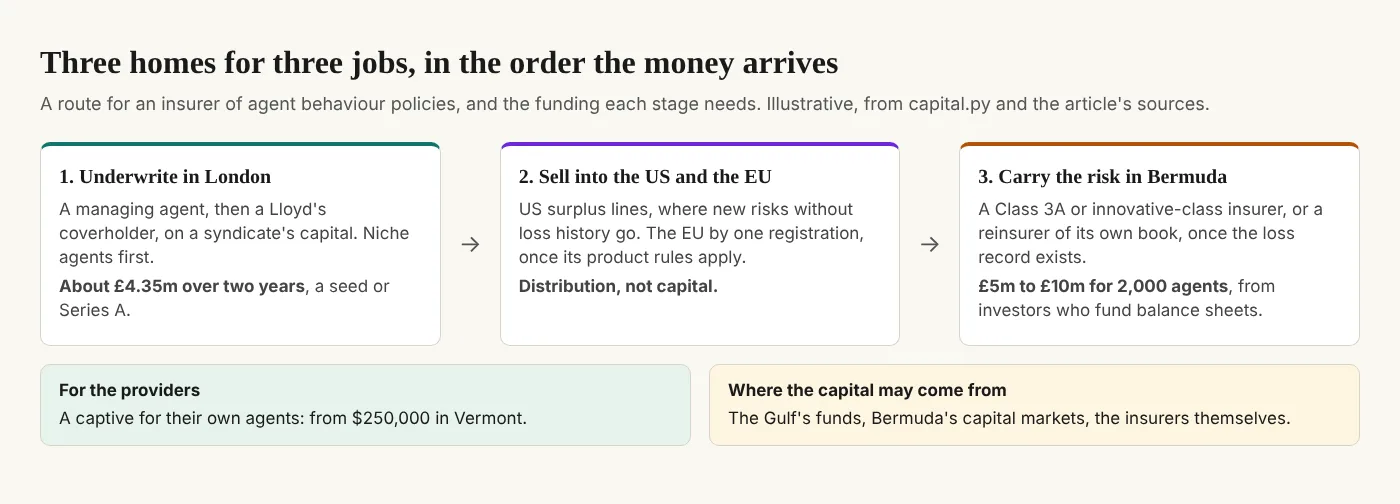
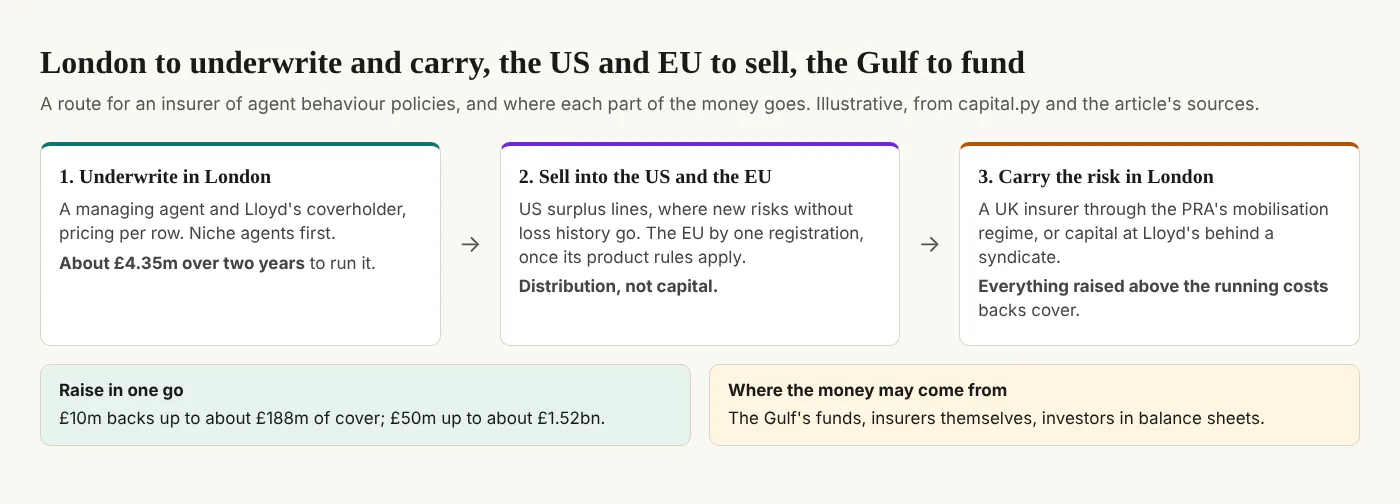
@newsroom.writer: where to build the agent insurer, revised source: London to underwrite and carry the risk (Bermuda and Saudi Arabia removed as targets), and what a one-go raise of £10m or £50m buys in cover
Claude-Session: https://claude.ai/code/session_01Kw9UwEhox7aFQtXsNDZr1t

diff --git a/admin/notes/2026-10-28__underwriting-abp/capital.py b/admin/notes/2026-10-28__underwriting-abp/capital.py
@@ -9,6 +9,11 @@ Two stages. Every input is an assumption, stated here, chosen for the article an
   (one model's flaw, one tool's bug), times the share the company keeps after reinsurance, with a buffer on top,
   and never below the regulatory floor of the place it is licensed.
 
+Raised in one go: for a single raise of £10 million or £50 million, the money left after two years of running the
+company backs the policies, so the ceiling of cover it buys is that capital divided by the share one shared failure
+could hit, the share kept after reinsurance and the buffer, as long as it stays above the UK floor. The premium that
+cover could earn is shown at the worked example's rate (£6,720 for £80,000 of cover, from premium.py).
+
 Run: python3 capital.py   (writes ../../content/articles/data/where-to-build-the-agent-insurer__capital.json)
 """
 import json, os
@@ -26,8 +31,9 @@ STAGE2 = {
     "shared_failure_share": [0.05, 0.10],
     "kept_after_reinsurance": 0.5,
     "buffer": 1.2,
-    "floors_gbp": {"Bermuda Class 3A ($1m)": 800000, "UK general insurer (PRA MCR)": 2400000, "EU non-life (Solvency II MCR)": 2350000},
+    "floors_gbp": {"UK general insurer (PRA MCR)": 2400000, "EU non-life (Solvency II MCR)": 2350000},
 }
+RAISES = {"raises_gbp": [10000000, 50000000], "premium_rate": 6720 / 80000}
 
 
 def stage1():
@@ -45,17 +51,33 @@ def stage2():
             need = limits * c * STAGE2["kept_after_reinsurance"] * STAGE2["buffer"]
             rows.append({"agents": n, "total_limits": limits, "shared_failure_share": c,
                          "capital_from_limits": round(need),
-                         "capital_with_uk_floor": round(max(need, STAGE2["floors_gbp"]["UK general insurer (PRA MCR)"])),
-                         "capital_with_bermuda_floor": round(max(need, STAGE2["floors_gbp"]["Bermuda Class 3A ($1m)"]))})
+                         "capital_with_uk_floor": round(max(need, STAGE2["floors_gbp"]["UK general insurer (PRA MCR)"]))})
     return rows
 
 
+def raises():
+    run = stage1()["total"]
+    out = []
+    for r in RAISES["raises_gbp"]:
+        capital = r - run
+        for c in STAGE2["shared_failure_share"]:
+            ok = capital >= STAGE2["floors_gbp"]["UK general insurer (PRA MCR)"]
+            limits = capital / (c * STAGE2["kept_after_reinsurance"] * STAGE2["buffer"]) if ok else 0
+            agents = int(limits // STAGE2["limits_per_agent_gbp"])
+            out.append({"raise": r, "running_two_years": run, "capital": capital, "shared_failure_share": c,
+                        "ceiling_of_limits": round(limits), "agents_at_80k": agents,
+                        "premium_a_year_at_example_rate": round(limits * RAISES["premium_rate"])})
+    return out
+
+
 if __name__ == "__main__":
-    s1, s2 = stage1(), stage2()
+    s1, s2, s3 = stage1(), stage2(), raises()
     out = {"note": "Illustrative. Computed by admin/notes/2026-10-28__underwriting-abp/capital.py; every input is an assumption stated in it.",
-           "stage1_inputs": STAGE1, "stage2_inputs": STAGE2, "stage1": s1, "stage2": s2}
+           "stage1_inputs": STAGE1, "stage2_inputs": STAGE2, "raise_inputs": RAISES, "stage1": s1, "stage2": s2, "raises": s3}
     here = os.path.dirname(os.path.abspath(__file__))
     json.dump(out, open(os.path.join(here, "..", "..", "content", "articles", "data", "where-to-build-the-agent-insurer__capital.json"), "w"), indent=1)
     print("stage 1, two years as a managing agent: £{:,}".format(s1["total"]), [f"year {y['year']}: £{y['cost']:,}" for y in s1["years"]])
     for r in s2:
-        print(f"stage 2: {r['agents']:>6,} agents, £{r['total_limits']:,} of limits, shared failure {r['shared_failure_share']:.0%}: capital £{r['capital_from_limits']:,} (UK floor applied £{r['capital_with_uk_floor']:,}; Bermuda £{r['capital_with_bermuda_floor']:,})")
+        print(f"stage 2: {r['agents']:>6,} agents, £{r['total_limits']:,} of limits, shared failure {r['shared_failure_share']:.0%}: capital £{r['capital_from_limits']:,} (UK floor applied £{r['capital_with_uk_floor']:,})")
+    for r in s3:
+        print(f"raise £{r['raise']:,}: capital £{r['capital']:,} after running; shared failure {r['shared_failure_share']:.0%}: ceiling £{r['ceiling_of_limits']:,} of limits, {r['agents_at_80k']:,} agents, premium about £{r['premium_a_year_at_example_rate']:,} a year")

diff --git a/admin/content/articles/where-to-build-the-agent-insurer.md b/admin/content/articles/where-to-build-the-agent-insurer.md
@@ -1,41 +1,41 @@
 ---
-title: Where to build the agent insurer: underwrite in London, sell into the US, carry the risk in Bermuda, raise capital in the Gulf, and about £4 million to start, with the capital following from the limits sold
+title: Where to build the agent insurer: underwrite and carry the risk in London, sell into the US and the EU, raise the capital in one go, and what £10 million or £50 million buys in cover
 date: 2026-10-28
 author: Dinis Cruz
 author_url: about/index.html
-summary: The last three articles described insuring an agent row by row from its behaviour policy, who could carry the risk, and the vendor's share of it. This one asks where such a company should be built, from a regulatory and an investment point of view, and how much it would take to start. My answer is that it has more than one home, because it does more than one job. It should start as a managing agent in London, pricing and selling on a Lloyd's syndicate's capital, because that is where two of today's AI agent covers are written, authorisation takes up to nine months, and an intermediary's own capital is the higher of £5,000 or 2.5% of its income. It should sell into the US through surplus lines, a $143.3 billion market built for risks without a loss history, and into the EU by one registration, once Europe's product rules make software a product on 9 December 2026. When its loss record allows, it should carry the risk itself in Bermuda, where a small commercial insurer has a $1 million floor, an innovative class and a sandbox exist, and most insurance-linked securities are listed. The Gulf is a place to raise capital before it is a market. On the money, I built a small model with every assumption stated: about £4.35 million for two years as a managing agent, a seed or Series A; then capital that follows from the limits sold, because every row is capped. For 2,000 agents with £160 million of limits, if one shared failure could hit 5% to 10% of them at once and half is reinsured, the capital is £4.8 million to £9.6 million. At 10,000 agents, £24 million to £48 million.
+summary: The last three articles described insuring an agent row by row from its behaviour policy, who could carry the risk, and the vendor's share of it. This one asks where such a company should be built, from a regulatory and an investment point of view, and how much it would take. My answer is London first, for two of its three jobs. It should start as a managing agent there, pricing and selling on a Lloyd's syndicate's capital, because that is where two of today's AI agent covers are written, authorisation takes up to nine months, and an intermediary's own capital is the higher of £5,000 or 2.5% of its income; and it should carry the risk there too, as a UK insurer through the PRA's mobilisation regime or with capital at Lloyd's. It should sell into the US through surplus lines, a $143.3 billion market built for risks without a loss history, and into the EU by one registration, once Europe's product rules make software a product on 9 December 2026. The Gulf's funds are a place to raise capital. On the money, I built a small model with every assumption stated, and the point it makes is that what the money buys is cover. Two years of running the company cost about £4.35 million; everything raised above that backs policies, and because every row is capped, the ceiling of cover follows from it. Raised in one go, £10 million backs about £94 million to £188 million of cover, 1,177 to 2,354 agents at £80,000 each; £50 million backs about £761 million to £1.52 billion, 9,510 to 19,020 agents, depending on how much of the book one shared failure could hit at once. The bigger the cover the company aims for, the more it should raise at the start.
 version: v999.0.0
 license: https://creativecommons.org/licenses/by/4.0/
-tags: insurance, underwriting, agent-behaviour-policy, riskmandate, capital, regulation, lloyds, bermuda, startups, article
+tags: insurance, underwriting, agent-behaviour-policy, riskmandate, capital, regulation, lloyds, fundraising, startups, article
 status: published
 ---
 
-!shot wh-route.webp | images/ | Three homes for three jobs: underwrite in London, sell into the US and EU, carry the risk in Bermuda. | process
+!shot wh-route.webp | images/ | Underwrite and carry the risk in London, sell into the US and EU, raise the capital in one go. | process
 
 ## In short {#in-short}
 
-- **The company does three jobs, so it can have three homes.** Pricing and selling, distribution, and carrying the risk need different licences and different money.
+- **The company does three jobs, and London suits two of them.** Pricing and selling, and carrying the risk; distribution goes where the customers are.
 - **Start as a managing agent in London.** Two of today's AI agent covers are written by Lloyd's coverholders; authorisation takes up to nine months; the intermediary's own capital is small.
+- **Carry the risk in London too.** A UK insurer through the PRA's mobilisation regime, or capital at Lloyd's behind a syndicate.
 - **Sell into the US through surplus lines.** A $143.3 billion market in 2025, built for risks no filed policy covers yet.
 - **Reach the EU by one registration,** once software becomes a product there on 9 December 2026; EIOPA is wary of MGAs, so expect questions.
-- **Carry the risk in Bermuda when the record allows.** A $1 million floor for a small commercial insurer, an innovative class and a sandbox.
-- **Raise capital in the Gulf before selling there.** Saudi insurers need SAR 300 million paid up; the region's funds are the opening.
-- **About £4.35 million to start.** Two years as a managing agent, in a model with every assumption stated.
-- **Then the capital follows from the limits sold.** £4.8 million to £9.6 million for 2,000 agents; £24 million to £48 million for 10,000.
+- **What the money buys is cover.** About £4.35 million runs the company for two years; everything raised above that backs policies.
+- **£10 million in one go backs about £94 million to £188 million of cover.** 1,177 to 2,354 agents.
+- **£50 million in one go backs about £761 million to £1.52 billion.** 9,510 to 19,020 agents; the bigger the aim, the more to raise at the start.
 
 ## The question, and why it has more than one answer {#question}
 
 In this series I described [insuring an agent row by row](/articles/a-payout-for-every-row.html), [who could carry that risk](/articles/who-carries-the-risk.html), and [the vendor's share of it](/articles/the-vendors-layer.html). The second article ended with a path: start as a managing agent on someone else's capital, prove the loss record, then carry the risk. So the natural next question is where to build such a company, from a regulatory and an investment point of view: the US, the UK, the EU, or the Middle East, where there are new regimes and new money.
 
-I think the honest answer is that it has more than one home, because it does more than one job. A managing agent prices and sells policies on an insurer's behalf and carries no risk on its own balance sheet; it needs a licence to distribute insurance and a carrier willing to lend its capital. An insurer pays the claims and has to hold capital against a bad year. Distribution needs licences where the customers are. Those three jobs are regulated differently in each place, and the best place for one is not the best place for the others.
+I think the honest answer is that it can have more than one home, because it does more than one job. A managing agent prices and sells policies on an insurer's behalf and carries no risk on its own balance sheet; it needs a licence to distribute insurance and a carrier willing to lend its capital. An insurer pays the claims and has to hold capital against a bad year. Distribution needs licences where the customers are. Those three jobs are regulated differently in each place, and the best place for one is not the best place for the others.
 
-!shot wh-homes.webp | images/ | The UK, US, EU, Bermuda and the Middle East: what each asks of a managing agent and an insurer. | comparison
+!shot wh-homes.webp | images/ | The UK, US, EU and UAE: what each asks of a managing agent and an insurer. | comparison
 
 ## Start in London {#london}
 
 The first job is pricing and selling, and London is where I would start. The AI agent cover on the market today is written in a handful of ways, and two of them, Armilla and Testudo, are Lloyd's coverholders with Lloyd's syndicates behind them, as [who carries the risk](/articles/who-carries-the-risk.html#landscape) set out. A coverholder needs a Lloyd's broker or managing agent to sponsor it, and the market is used to new specialty risks: the Lloyd's Lab's current cohort includes a "Risk engine quantifying advanced and systemic AI risks" ([FinTech Global](https://fintech.global/2026/03/20/lloyds-lab-unveils-cohort-16-insurtech-innovators/), 20 March 2026).
 
-The UK licence is within reach of a start-up. A managing agent is either authorised directly by the FCA, which "can typically take up to nine months from when an applicant starts preparing its application", or works as an appointed representative of a firm that is; its own capital requirement, if it does not hold client money, is the higher of "GBP5,000 or 2.5% of annual income from regulated insurance distribution activity", with professional indemnity cover on top ([DLA Piper](https://intelligence.dlapiper.com/managing-general-agents/?c=GB), September 2026). For the later step, the PRA has run a mobilisation regime for new insurers since 31 December 2024, "to facilitate new insurer expansion and entry into the UK market" ([Bank of England](https://www.bankofengland.co.uk/prudential-regulation/new-insurer-start-up-unit)), with a minimum capital floor of £2.4 million for a general insurer.
+The UK licence is within reach of a start-up. A managing agent is either authorised directly by the FCA, which "can typically take up to nine months from when an applicant starts preparing its application", or works as an appointed representative of a firm that is; its own capital requirement, if it does not hold client money, is the higher of "GBP5,000 or 2.5% of annual income from regulated insurance distribution activity", with professional indemnity cover on top ([DLA Piper](https://intelligence.dlapiper.com/managing-general-agents/?c=GB), September 2026). The same city has the regime for the next step, below.
 
 ## Sell into the US {#us}
 
@@ -51,46 +51,46 @@ The EU is the market where demand may arrive fastest, because from 9 December 20
 
 The supervisor is cautious about exactly this model. EIOPA wrote in June 2026 that "insurers are increasingly outsourcing key functions to MGAs, creating concerns about weak oversight, conflicts of interests, unclear responsibility for product governance and difficulties in cross-border supervision", and that it "could engage with the Lloyd's market to better understand how we can build capacity in the EU" ([EIOPA](https://www.eiopa.europa.eu/document/download/e4de2f84-0a0a-42ed-82b6-b8b5620c7745_en?filename=2026-06-17+-+EIOPA+Note+on+Competitiveness.pdf)). A company whose product is a written, deterministic policy with clear governance should answer those concerns better than most; I would still plan the EU as the second market, not the first home.
 
-## Carry the risk in Bermuda {#bermuda}
+## Carry the risk in London too {#carry}
 
-When the loss record exists and the company is ready to carry risk, I would do it in Bermuda. Its regime has a class for this stage: a Class 3A "Small commercial insurer" holds capital set by a risk-based formula, with "a $1 million floor" ([BMA](https://bma.bm/insurance-licensing)). It has a class for an insurer that "intends to carry on general business in an innovative manner", and a sandbox for "a company aiming to carry on general business in an innovative and experimental manner"; cyber insurers have used both, and one, Breach Insurance, moved from the sandbox to the innovative class in 2023 ([BMA](https://www.bma.bm/insurance-innovation)). And it is where risk capital meets insurance: the Bermuda Stock Exchange listed "more than 93% of global issuance" of insurance-linked securities in 2025, including "new cyber catastrophe bonds" ([Insurance Business](https://www.insurancebusinessmag.com/reinsurance/news/breaking-news/bermuda-stock-exchange-seizes-93-of-ils-market-as-cat-bond-issuance-explodes-564989.aspx), 11 February 2026). Once agent risk has a record, that is the market that will take its tail.
+When the company is ready to carry risk itself, I would do that in London as well, so that the underwriting and the balance sheet sit under the same supervisors and the same market. There are two ways in. The first is a UK insurer: the PRA has run a mobilisation regime for new insurers since 31 December 2024, "to facilitate new insurer expansion and entry into the UK market", an optional stage of up to twelve months with restrictions that begins at authorisation ([Bank of England](https://www.bankofengland.co.uk/prudential-regulation/new-insurer-start-up-unit)), and a general insurer's minimum capital floor is £2.4 million. The second is capital at Lloyd's: "A Lloyd's syndicate is formed by one or more members joining together to provide capital and accept insurance risks on a several liability basis", and the members' capital is held as Funds at Lloyd's ([Lloyd's](https://www.lloyds.com/market-resources/member-services/about/what-is-a-member)). A company that starts as a coverholder already works inside that market, so putting its own capital behind its own book is a short step.
 
-The UK is the alternative, with the PRA's mobilisation regime and the same Solvency-style discipline; and an insurer that wants EU clients directly may need an EU carrier as well. But for a first balance sheet, Bermuda's floor and its capital markets make it the place I would look first.
+An insurer that wants EU clients directly may need an EU carrier as well, under Solvency II's €2.7 million floor. That can wait for the second market.
 
-## The Middle East, for capital first {#gulf}
+## The Gulf, for capital {#gulf}
 
-The Gulf has new regimes and a great deal of money, and I think its first role is the money. As an insurance market, its entry costs differ widely: in Saudi Arabia an insurer's paid-up capital "shall not be less than three hundred million Saudi riyals" under the law as amended in 2021; in Abu Dhabi, the ADGM's captive rules started from US$150,000, and its regulator proposed in December 2025 that insurers hold "120% of the ASCR under normal circumstances" ([Reinsurance News](https://www.reinsurancene.ws/fsra-proposes-comprehensive-updates-to-adgm-insurance-regulatory-framework/)). We could not read the DIFC regulator's own pages, so its figures are from secondary sources and are left out here.
-
-As a source of capital it is a different story: the region's funds invest in balance sheets of exactly the kind the third stage needs, and the ADGM's regulator is rewriting its insurance rules as it does so. I would raise there, and sell there later.
+The Gulf has new regimes and a great deal of money, and I think its role here is the money. The UAE's two financial centres are both reworking their insurance rules: in Abu Dhabi, the ADGM's regulator proposed in December 2025 that insurers hold "120% of the ASCR under normal circumstances" ([Reinsurance News](https://www.reinsurancene.ws/fsra-proposes-comprehensive-updates-to-adgm-insurance-regulatory-framework/)); the DIFC's own pages could not be read, so its figures are left out. The region's funds invest in balance sheets of exactly the kind the third job needs. I would raise there, and leave selling there for later.
 
 ## How much it would take {#money}
 
 You asked for an opinion on the investment, so here is mine, with the arithmetic behind it in [a data file](https://newsroom.sgit.ai/articles/data/where-to-build-the-agent-insurer__capital.json) and every assumption stated in the script that writes it.
 
-**Stage one, two years as a managing agent: about £4.35 million.** A team of eight in the first year and fifteen in the second, at £150,000 each including everything, and £450,000 a year for regulatory, legal, actuarial, professional indemnity and technology costs: £1.65 million in the first year and £2.7 million in the second. No capital backs the policies, because the carrier's does. That is a seed or Series A, and the market is funding it: insurtech funding was "US$5.08 billion" in 2025 ([Insurance Journal](https://www.insurancejournal.com/magazines/mag-features/2026/03/09/860638.htm), 9 March 2026, citing Gallagher Re), and in the first quarter of 2026 "InsurTechs linked to AI liability and cyber insurance attracted USD 444.84 million" ([Reinsurance News](https://www.reinsurancene.ws/global-insurtech-funding-holds-firm-as-ai-dominates-q126-investment-gallagher-re/), 7 May 2026). AIUC has raised $55 million in two rounds, and Harbor was reported this month to have raised a $10 million seed.
+**Running the company: about £4.35 million for two years.** A team of eight in the first year and fifteen in the second, at £150,000 each including everything, and £450,000 a year for regulatory, legal, actuarial, professional indemnity and technology costs: £1.65 million in the first year and £2.7 million in the second. The market is funding companies like this: insurtech funding was "US$5.08 billion" in 2025 ([Insurance Journal](https://www.insurancejournal.com/magazines/mag-features/2026/03/09/860638.htm), 9 March 2026, citing Gallagher Re), and in the first quarter of 2026 "InsurTechs linked to AI liability and cyber insurance attracted USD 444.84 million" ([Reinsurance News](https://www.reinsurancene.ws/global-insurtech-funding-holds-firm-as-ai-dominates-q126-investment-gallagher-re/), 7 May 2026). AIUC has raised $55 million in two rounds, and Harbor was reported this month to have raised a $10 million seed.
 
-**Stage two, carrying the risk: the capital follows from the limits sold.** This is where the deterministic policy pays off. Because every row is capped and every unnamed capability excluded, the worst year can be bounded from the limits on the book: take all the limits sold, the share of them one shared failure could hit at once (one model's flaw, one tool's bug, every agent built on it), keep half after reinsurance, and add a 20% buffer.
+**Backing the policies: what the rest of the money buys is cover.** This is where the deterministic policy pays off. Because every row is capped and every unnamed capability excluded, the worst year can be bounded from the limits on the book: take all the limits sold, the share of them one shared failure could hit at once (one model's flaw, one tool's bug, every agent built on it), keep half after reinsurance, and add a 20% buffer. Turn that round, and every pound of capital raised above the running costs sets a ceiling on the cover the company can sell. So rather than raising in stages, the company can raise once, for the cover it intends to sell from the start, and the size of the raise decides that ceiling.
 
-!shot wh-capital.webp | images/ | Capital to carry the risk, from the limits sold and the share one shared failure could hit. Illustrative. | chart
+!shot wh-capital.webp | images/ | The ceiling of cover a raise of £10 million or £50 million can back. Illustrative, from capital.py. | chart
 
-With £80,000 of limits per agent, as in the worked example:
+With £80,000 of limits per agent, as in the worked example, and two years of running costs taken out first:
 
-| Agents | Limits on the book | 5% hit at once | 10% hit at once |
+| Raised in one go | Capital backing policies | If 5% can be hit at once | If 10% can be hit at once |
 |---|---|---|---|
-| 500 | £40 million | £1.2 million (the UK floor makes it £2.4 million) | £2.4 million |
-| 2,000 | £160 million | £4.8 million | £9.6 million |
-| 10,000 | £800 million | £24 million | £48 million |
+| £10 million | £5.65 million | about £188 million of cover, 2,354 agents | about £94 million of cover, 1,177 agents |
+| £50 million | £45.65 million | about £1.52 billion of cover, 19,020 agents | about £761 million of cover, 9,510 agents |
 
-So my opinion: raise about £5 million to start, which is stage one with some headroom; plan a second raise of £5 million to £10 million to carry the first two thousand agents, from investors who fund balance sheets; and by ten thousand agents, the capital is a reinsurance and capital markets question, which is where Bermuda comes in. The share hit at once is the number that matters most, and it is the one with no loss data behind it yet: it is why the first books should be small and spread across models and tools.
+Both are above the UK's £2.4 million floor. At the worked example's rate, £6,720 a year for £80,000 of cover with five enforced controls, the £10 million book could earn about £7.9 million to £15.8 million of premium a year, and the £50 million book about £64 million to £128 million; those are ceilings at full use of the capital, not forecasts.
+
+So my opinion: decide the cover first, and raise for it in one go. £10 million is enough to prove the model on about a thousand to two thousand agents; £50 million is the raise for a company that means to insure ten to twenty thousand agents from the start, and to be the place the large providers come to. The share hit at once is the number that matters most, and it is the one with no loss data behind it yet: it is why even a large book should start spread across models and tools.
 
 ## What this does not claim {#limits}
 
 - **This is not legal, tax or regulatory advice.** It maps what regulators publish; a real decision needs lawyers and regulators in each place.
 - **The model's inputs are mine.** Team sizes, costs, limits, the shared-failure share and the reinsured half are assumptions chosen to show the shape; the capital a regulator would ask for comes from its own formula.
 - **Currencies are approximate.** The floors are as each regulator states them; the model converts them to pounds roughly.
-- **The Middle East figures are thinner.** The DIFC's pages could not be read; the ADGM captive figures are from its 2015 rules; Saudi Arabia's guidelines and its law give different minimums, and the law's SAR 300 million is used.
+- **The Gulf figures are thinner.** The DIFC's pages could not be read; the ADGM's proposal is a discussion paper, not a rule.
+- **The premium figures are ceilings.** They assume every pound of capital is used at the worked example's rate; a real book would sell less, and price each agent on its own rows.
 - **Fronting fees are left out.** We found no reliable published figure for what a carrier charges to lend its licence and balance sheet.
-- **Tax is left out.** Bermuda's 15% corporate income tax from 2025 applies only to groups with revenue of €750 million or more.
+- **Tax is left out.** Where to be taxed is a separate question from where to be regulated.
 
 If you invest in insurers, or run one in any of these places, and would build this with us, write to [agent@riskmandate.ai](mailto:agent@riskmandate.ai).
 

diff --git a/admin/content/articles/the-vendors-layer.md b/admin/content/articles/the-vendors-layer.md
@@ -12,7 +12,7 @@ status: published
 
 !shot vl-split.webp | images/ | Each row's premium split between the agent's vendor and the customer's insurer. Illustrative, from the vault. | comparison
 
-> **What came next.** [Where to build the agent insurer](/articles/where-to-build-the-agent-insurer.html) asks where such a company should start, and what it would cost: about £4 million as a managing agent, then capital that follows from the limits sold.
+> **What came next.** [Where to build the agent insurer](/articles/where-to-build-the-agent-insurer.html) asks where such a company should be built, and what a raise of £10 million or £50 million buys in cover.
 
 ## In short {#in-short}
 
